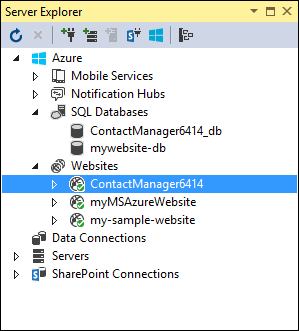
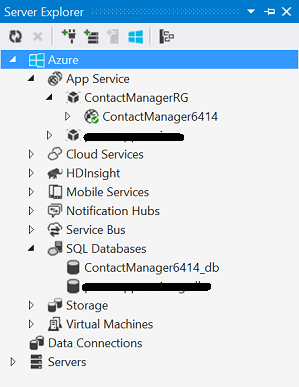
Updated Get started with websites and ASP.NET HOL.

diff --git a/HOL/get-started-with-websites-and-asp-net/README.md b/HOL/get-started-with-websites-and-asp-net/README.md
@@ -1,13 +1,13 @@
-# Getting started with Azure Websites and ASP.NET
+# Getting started with Azure App Service Web Apps and ASP.NET
 
-This lab shows how to create an ASP.NET web application and deploy it to an Azure Website by using Visual Studio 2015 Preview. It assumes that you have no prior experience using Azure or ASP.NET. On completing the lab, you will have a simple web application up and running in the cloud.
+This lab shows how to create an ASP.NET web application and deploy it to an Azure App Service Web App by using Visual Studio 2015 Preview. It assumes that you have no prior experience using Azure or ASP.NET. On completing the lab, you will have a simple web application up and running in the cloud.
 
 This lab includes the following sections:
 
 1. [Create an ASP.NET web application in Visual Studio](#create-an-aspnet-web-application)
 1. [Deploy the application to Azure](#deploy-the-application-to-azure)
 1. [Make a change and redeploy](#make-a-change-and-redeploy)
-1. [Monitor and manage the site in the management portal](#monitor-and-manage-the-site-in-the-management-portal)
+1. [Monitor and manage the site in the preview portal](#monitor-and-manage-the-site-in-the-management-portal)
 1. [Appendix - Cleanup](#cleanup)
 
 ## Create an ASP.NET web application
@@ -17,7 +17,7 @@ In this task you will create the web application that is going to be used throug
 1. Open Visual Studio. From the **File** menu, hover over the **New** option and click **Project**.
 
 	![New Project in File menu](./images/newProject.png)
-	
+
     _New Project in File menu_
 
 2. In the **New Project** dialog box, expand **C#** and select **Web** under **Installed Templates**, and then select **ASP.NET Web Application**.
@@ -25,67 +25,63 @@ In this task you will create the web application that is going to be used throug
 3. Name the application **ContactManager** and click **OK**.
 
 	![New Project dialog box](./images/newProject-dialog.png)
-	
+
     _New Project dialog box_
 
 	>**Note:** Make sure you enter "ContactManager". Code blocks that you will be copying later assume that the project name is ContactManager.
 
-4. In the **New ASP.NET Project** dialog box, select the **MVC** template. Verify **Authentication** is set to **Individual User Accounts**, **Host in the cloud** is checked and **Website** is selected. Then, click **OK**.
+4. In the **New ASP.NET Project** dialog box, select the **MVC** template. Verify **Authentication** is set to **Individual User Accounts**, **Host in the cloud** is checked and **Web App** is selected. Then, click **OK**.
 
 	![New ASP.NET Project dialog box](./images/newProject-dialog-2.png)
-	
+
     _New ASP.NET Project dialog box_
 
 5. If you haven't already signed in to Azure, Visual Studio prompts you to do so. Click **Sign In**. Follow the prompts and provide your credentials.
 
 	![Sign in to Azure](./images/sign-to-Azure.png)
-	
+
     _Sign in to Azure_
 
 6. The configuration wizard will suggest a unique name based on *ContactManager* (see the image below). Select a region near you. You can use [azurespeed.com](http://www.azurespeed.com/ "AzureSpeed.com") to find the lowest latency data center.
 7. If you haven't created a database server before, select **Create new server**, enter a database user name and password.
 
-	![Configure Azure Website](./images/configure-azure1.png)
-	
-    _Configure Azure Website_
+	![Configure Azure Web App](./images/configure-azure1.png)
 
-	If you have a database server, use that to create a new database. Database servers are a precious resource, and you generally want to create multiple databases on the same server for testing and development rather than creating a database server per database. Make sure your web site and database are in the same region.
+    _Configure Azure Web App_
 
-	![Configure Azure Website](./images/configure-azure2.png)
-	
-    _Configure Azure Website_
+	If you have a database server, use that to create a new database. Database servers are a precious resource, and you generally want to create multiple databases on the same server for testing and development rather than creating a database server per database. Make sure your Web App and database are in the same region.
 
 8. Click **OK**.
 
-	In a few seconds, Visual Studio creates the web project in the folder you specified, and it creates the website in the Azure region you specified.
+	In a few seconds, Visual Studio creates the web project in the folder you specified, and it creates the Web App in the Azure region you specified.
 
 	The **Solution Explorer** window shows the files and folders in the new project.
 
 	![Solution Explorer](./images/solution-explorer.png)
-	
+
 	_Solution Explorer_
 
-	The **Web Publish Activity** window shows that the site has been created.
+	The **Azure App Service Activity** window shows that the Web App has been created.
 
-	![Web site created](./images/web-publish-view.png)
-	
-	_Web site created_
+	![Web App created](./images/web-publish-view.png)
 
-	And you can see the site and database in **Server Explorer**.
+	_Web App created_
+
+	And you can see the Web App and database in **Server Explorer**.
 
 	> **Note:** if the Server Explorer window is not open, you can open it from the **View** menu.
 
-	![Web site created](./images/server-explorer.png)
-	
-    _Web site created_
+	![Web App created](./images/server-explorer.png)
+
+    _Web App created_
 
 ## Deploy the application to Azure
 
-1. In the **Web Publish Activity** window, click **Publish ContactManager to this site now**.
+1. In the **Azure App Service Activity** window, click **Publish ContactManager to this Web App now**.
 
-	![Web site created](./images/web-publish-view-2.png)
-	
-    _Web Publish Activity Window_
+	![Web App created](./images/web-publish-view-2.png)
+
+    _Azure App Service Activity Window_
 
 	In a few seconds the **Publish Web** wizard appears.
 
@@ -94,7 +90,7 @@ In this task you will create the web application that is going to be used throug
 2. In the **Connection** tab of the **Publish Web** wizard, click **Validate Connection** to make sure that Visual Studio can connect to Azure in order to deploy the web project.
 
 	![Validate connection](./images/validate-connection.png)
-	
+
     _Validating the connection_
 
 	When the connection has been validated, a green check mark is shown next to the **Validate Connection** button.
@@ -102,9 +98,9 @@ In this task you will create the web application that is going to be used throug
 3. Click **Next**.
 
 	![Successfully validated connection](./images/validate-connection-2.png)
-	
+
 	_Successfully validated connection_
-    
+
 4. The **Settings** tab is shown. If you expand **File Publish Options** you will see several settings that enable you to handle scenarios that don't apply to this lab:
 
 	* **Remove additional files at destination**.
@@ -122,13 +118,13 @@ In this task you will create the web application that is going to be used throug
 	In this case, keep the default values for **Configuration** and **File Publish Options** and click **Next**.
 
 	![Settings tab](./images/publishing-settings.png)
-	
+
     _Settings tab_
 
 5. In the **Preview** tab, click **Start Preview**.
 
 	![StartPreview button in the Preview tab](./images/start-preview.png)
-	
+
 	_Start Preview button - Preview tab_
 
 	The tab displays a list of the files that will be copied to the server. Displaying the preview isn't required to publish the application but it's a useful function to be aware of.
@@ -136,22 +132,26 @@ In this task you will create the web application that is going to be used throug
 6. Click **Publish**.
 
 	![StartPreview file output](./images/click-publish.png)
-	
+
 	_File Preview_
 
 	Visual Studio begins the process of copying the files to the Azure server.
 
-	The **Output** and **Web Publish Activity** windows show what deployment actions were taken and report successful completion of the deployment.
+	The **Output** and **Azure App Service Activity** windows show what deployment actions were taken and report successful completion of the deployment.
 
-	![Output window reporting successful deployment](./images/publish-output.png)
-	
-    _Output window reporting successful deployment_
+	![Azure App Service Activity](./images/publish-output.png)
 
-	Upon successful deployment, the default browser automatically opens to the URL of the deployed website, and the application that you created is now running in the cloud. The URL in the browser address bar shows that the site is being loaded from the Internet.
+    _Azure App Service Activity reporting successful deployment_
 
-	![Web site running in Azure](./images/publish-success.png)
-	
-	_Web site running in Azure_
+	![Output window](./images/output-window.png)
+
+	  _Output Window reporting successful deployment_
+
+	Upon successful deployment, the default browser automatically opens to the URL of the deployed Web App, and the application that you created is now running in the cloud. The URL in the browser address bar shows that the site is being loaded from the Internet.
+
+	![Web App running in Azure](./images/publish-success.png)
+
+	_Web App running in Azure_
 
 7. Close the browser.
 
@@ -162,19 +162,19 @@ In this task, you will change the **h1** heading of the home page, run the proje
 1. Open the *Views/Home/Index.cshtml* file in **Solution Explorer**, change the **h1** heading from "ASP.NET" to "ASP.NET and Azure", and save the file.
 
 	![MVC index.cshtml](./images/solution-explorer-index.png)
-	
+
     _Index.cshtml_
 
 	![MVC h1 change](./images/index-modification.png)
-	
+
     _Changing the page's heading_
 
 2. Press **CTRL+F5** to see the updated heading by running the site on your local computer.
 
-	![Web site running locally](./images/running-localhost.png)
-	
-	_Web site running locally_
-    
+	![Web App running locally](./images/running-localhost.png)
+
+	_Web App running locally_
+
 	The **http://localhost** URL shows that it's running on your local computer. By default it's running in IIS Express, which is a lightweight version of IIS designed for use during web application development.
 
 3. Close the browser.
@@ -182,7 +182,7 @@ In this task, you will change the **h1** heading of the home page, run the proje
 4. In **Solution Explorer**, right-click the project, and choose **Publish**.
 
 	![Chooose Publish](./images/second-publish.png)
-	
+
     _Preparing a new deployment_
 
 	The Preview tab of the **Publish Web** wizard appears. If you needed to change any publish settings you could choose a different tab, but now all you want to do is redeploy with the same settings.
@@ -190,90 +190,105 @@ In this task, you will change the **h1** heading of the home page, run the proje
 5. In the **Publish Web** wizard, click **Publish**.
 
 	![Click Publish](./images/click-publish-no-preview.png)
-	
+
 	_Publish Web Wizard_
-    
+
 	Visual Studio deploys the project to Azure and opens the site in the default browser.
 
 	![Changed site deployed](./images/aspnet-and-azure.png)
-	
+
 	_Changes deployed_
 
 	>**Tip:** You can enable the **Web One Click Publish** toolbar for even quicker deployment. Click **View** > **Toolbars**, and then select **Web One Click Publish**. The toolbar enables you to select a profile, click a button to publish, or click a button to open the **Publish Web** wizard.
 
 	![Web One Click Publish Toolbar](./images/publish-toolbar.png)
-	
+
     _Web One Click Publish Toolbar_
 
-## Monitor and manage the site in the management portal
+## Monitor and manage the site in the preview portal
 
-The [Azure Management Portal](https://manage.windowsazure.com/) is a web interface that enables you to manage and monitor your Azure services, such as the website you just created. In this task you will look at some of what you can do in the portal.
+The [Azure Preview Portal](https://portal.azure.com/) is a web interface that enables you to manage and monitor your Azure services, such as the App Service Web App you just created. In this task you will look at some of what you can do in the portal.
 
-1. In your browser, go to [http://manage.windowsazure.com](http://manage.windowsazure.com), and sign in with your Azure credentials.
+1. In your browser, go to [http://portal.azure.com](http://portal.azure.com), and sign in with your Azure credentials.
 
-	The portal displays a list of your Azure services.
+	The portal displays the home dashboard.
 
-2. Click the name of your website.
+	On the left, click on **Browse** and then scroll down until you find **Web Apps**. Click on **Web Apps**.
 
-	![Portal home page with new web site called out](./images/select-website.png)
+	![Browse to Web Apps](./images/browse-to-web-apps.png)
 
-    _Portal Home Page_
-  
-3. Click the **Dashboard** tab.
+2. Click the name of your Web App on the blade.
 
-	The **Dashboard** tab displays an overview of usage statistics and link for a number of commonly used site management functions. Under **Quick Glance** you will also find a link to your application's home page.
+	![Web Apps blade with the Web App called out](./images/select-website.png)
 
-	![Portal web site dashboard tab](./images/website-dashboard.png)
+    _Web Apps blade_
 
-  	_Website's Dashboard_
-    
-	At this point your site hasn't had much traffic and may not show anything in the graph. If you browse to your application, refresh the page a few times, and then refresh the portal **Dashboard** page, you will see some statistics show up. You can click the **Monitor** tab for more details.
+3. This blade gives you an overview of your Web App.
 
-4. Click the **Configure** tab.
+	You can access monitoring information, change the pricing tier, configure continuous deployment and various other tasks.
 
-	The [Configure](http://azure.microsoft.com/en-us/documentation/articles/web-sites-configure/) tab enables you to control the .NET version used for the site, enable features such as [WebSockets](http://azure.microsoft.com/blog/2013/11/14/introduction-to-websockets-on-windows-azure-web-sites/) and [diagnostic logging](http://azure.microsoft.com/en-us/documentation/articles/web-sites-enable-diagnostic-log/), set [connection string values](http://azure.microsoft.com/blog/2013/07/17/windows-azure-web-sites-how-application-strings-and-connection-strings-work/), and more. 
+	![Web App overview blade](./images/web-app-overview-blade.png)
 
-	![Portal web site configure tab](./images/website-configure.png)
-	
-  	_Website's Configuration Panel_
-    
-5. Click the **Scale** tab.
+  	_Web App's overview blade_
 
-	For the paid tiers of the Websites service, the [Scale](http://azure.microsoft.com/en-us/documentation/articles/web-sites-scale/) tab enables you to control the size and number of machines that service your web application in order to handle variations in traffic.
+	At this point your site hasn't had much traffic and may not show anything in the graph. If you browse to your application, refresh the page a few times, and then come back again, it will show up some traffic.
+
+4. Click at **Settings** at the top of the blade. Then click **Application Settings**.
+
+	The [Application Settings](http://azure.microsoft.com/en-us/documentation/articles/web-sites-configure/) blade enables you to control the .NET version used for the Web App, enable features such as [WebSockets](http://azure.microsoft.com/blog/2013/11/14/introduction-to-websockets-on-windows-azure-web-sites/) and [diagnostic logging](http://azure.microsoft.com/en-us/documentation/articles/web-sites-enable-diagnostic-log/), set [connection string values](http://azure.microsoft.com/blog/2013/07/17/windows-azure-web-sites-how-application-strings-and-connection-strings-work/), and more.
+
+	![Portal Web App Application Settings blade ](./images/website-configure.png)
+
+  	_WebApp's settings blade_
+
+5. Click the **Scale** option, right below **Application Settings**.
+
+	For the paid tiers of the Azure App Service, the [Scale](http://azure.microsoft.com/en-us/documentation/articles/web-sites-scale/) option enables you to control the size and number of machines that service your web application in order to handle variations in traffic.
 
 	You can scale manually or configure criteria or schedules for automatic scaling.
 
-	![Portal website scale tab](./images/website-scale.png)
-	
-    _Website's Scale Options_
+	![Portal Web App scale options](./images/website-scale.png)
 
-	These are just a few of the management portal features. You can also create new websites, delete existing sites, stop and restart sites, and manage other kinds of Azure services, such as databases and virtual machines.
+    _Web App's Scale Options_
 
-	**Tip:** There is a new management portal in preview which will eventually replace the one you've been using. For more information, see [Azure Preview Portal](http://azure.microsoft.com/en-us/overview/preview-portal/).
+	These are just a few of the management portal features. You can also create new App Service apps, delete existing apps, stop and restart apps, and manage other kinds of Azure services, such as databases and virtual machines.
 
 <a name="cleanup"></a>
 ##Appendix - Cleanup
 
-In this task you will learn how to delete the website published in the previous section. 
+In this task you will learn how to delete the Web App published in the previous section.
 
-1. In your browser, go to [http://manage.windowsazure.com](http://manage.windowsazure.com), and sign in with your Azure credentials.
+1. In your browser, go to [http://portal.azure.com](http://portal.azure.com), and sign in with your Azure credentials.
 
-2. In the **All Items** page, select your website by clicking the corresponding row.
+2. Click on **Browse** and scroll down until you see **Web Apps**. Click on **Web Apps**.
 
-3. Click **DELETE** in the bottom bar.
+3. Select your Web App. The Web App blade should now be open.
 
-	![Clicking Delete website](images/clicking-delete-website.png?raw=true)
+4. Click **Delete** in the top bar.
 
-	_Clicking Delete to delete website_
+	![Clicking Delete Web App](./images/clicking-delete-website.png?raw=true)
 
-4. In the **Delete Confirmation** dialog, check the check box to delete the database associated to the website and click the checkmark button.
+	_Clicking Delete to delete Web App_
 
-	![Delete website and database](images/delete-website-and-database.png?raw=true)
+5. In the **Delete app** confirmation dialog, click **Yes**.
 
-	_Deleting the website and associated database_
+	This will delete the Web App but it will keep the database intact. If you want to delete the database as well, follow the instructions below.
 
-	Once the resources are deleted you will see a notification in the bottom bar.
+6. Click on **Browse** and scroll down until you see **SQL Databases**. Click on **SQL Databases**.
+
+	![SQL Databases](./images/browse-to-sql-database.png)
+	_Click SQL databases_
+
+7. In the new **SQL Databases** blade, click on your database.
+
+	The database blade should now be open.
+
+8. Click on **Delete** from the top bar.
+
+	![SQL Database delete](./images/sql-database-blade-click-delete.png)
+
+9. In the **Delete database** confirmation dialog, click **Yes**.
 
 ## Summary
 
-In this lab you have seen how to create a simple web application and deploy it to an Azure Website. You also made a quick tour around the Azure Management Portal.
+In this lab you have seen how to create a simple web application and deploy it to an Azure App Service Web App. You also made a quick tour around the Azure Preview Portal.
